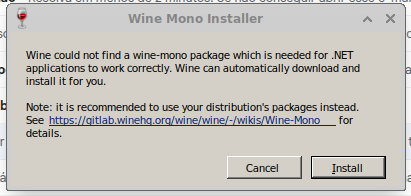
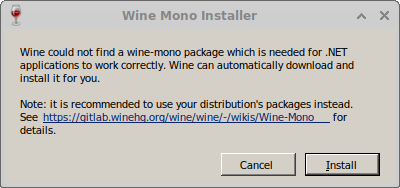
updating README

Changed region(s): [[0.0, 0.0, 1.0, 1.0], [0.3, 0.0532, 0.66, 0.133]]

diff --git a/README.md b/README.md
@@ -196,7 +196,7 @@ Para configurar/instalar/usar o `wine` no `Linux Ubuntu` sem precisar digitar li
     winetricks --version
     ```
 
-## 2. Troubleshooting: conflito entre versões `amd66` e `i386`
+## 2. _Troubleshooting_: conflito entre versões `amd66` e `i386`
 
 Se ocorrer erro como:
 
@@ -218,12 +218,75 @@ sudo apt install libelf1=<versao> libelf1:i386=<versao>
 
 Substitua `<versao>` pela versão disponível no seu sistema.
 
+## 3. Consultar as configurações do `wine` para um determinado repo
+
+1. Para listar os prefixos `Wine` existentes no seu diretório pessoal, você pode começar com:
+
+    ```bash
+    find "$HOME" -maxdepth 2 -type f -name system.reg \
+        -printf '%h\n' 2>/dev/null
+    ```
+
+    Como todo prefixo normalmente possui `system.reg`, você poderá obter algo como:
+
+    ```bash
+    /home/edenedfsls/.wine
+    /home/edenedfsls/.wine-gaseq
+    /home/edenedfsls/.wine-office365
+    ```
+
+2. Para consultar a configuração de um prefixo específico, há alguns comandos úteis:
+
+    ```bash
+    # Abrir a configuracao grafica
+    WINEPREFIX="$HOME/.wine-gaseq" winecfg
+
+    # Abrir o registro desse prefixo
+    WINEPREFIX="$HOME/.wine-gaseq" wine regedit
+
+    # Abrir o painel de controle
+    WINEPREFIX="$HOME/.wine-gaseq" wine control
+
+    # Ver os programas instalados pelo Wine
+    WINEPREFIX="$HOME/.wine-gaseq" \
+        wine uninstaller
+    ```
+
+3. Para descobrir a versão do `Windows` configurada naquele prefixo, uma forma prática é:
+
+    ```bash
+    grep -A 5 'Software\\\\Microsoft\\\\Windows NT\\\\CurrentVersion' \
+        "$HOME/.wine-gaseq/system.reg"
+    ```
+
+    E, se você estiver usando Winetricks, pode consultar várias informações do prefixo:
+
+    ```bash
+    WINEPREFIX="$HOME/.wine-gaseq" winetricks list-installed
+    ```
+
+    Isso é particularmente útil porque mostra componentes adicionais instalados naquele ambiente, por exemplo:
+
+    ```bash
+    corefonts
+    vcrun2019
+    dotnet48
+    ```
+
 ## Referências
 
-[1] OPENAI. ***Instalar o `wine` no `linux ubuntu` pelo `terminal emulator`.*** Disponível em: <https://chatgpt.com/g/g-p-6980caf949648191ad6acfcdbe590f9e-instalar/c/69a549e6-0bac-8328-afc9-8d03a4a89441> (texto adaptado). Acessado em: 02/03/2026 00:37.
+[1] OPENAI.
+**Instalar o `wine` no `linux ubuntu` pelo `terminal emulator`.**
+Disponível em: <https://chatgpt.com/g/g-p-6980caf949648191ad6acfcdbe590f9e-instalar/c/69a549e6-0bac-8328-afc9-8d03a4a89441> (texto adaptado). ChatGPT.
+Acessado em: 02/03/2026 00:37.
 
-[2] WINE HQ TEAM. ***Ubuntu winehq repository.*** Disponível em: <https://wiki.winehq.org/Ubuntu> (texto adaptado). Acessado em: 21/10/2023 00:09.
+[2] WINE HQ TEAM.
+**Ubuntu winehq repository.**
+Disponível em: <https://wiki.winehq.org/Ubuntu> (texto adaptado).
+ChatGPT.
+Acessado em: 21/10/2023 00:09.
 
-[3] OPENAI. ***Vs code: editor popular.*** Disponível em: <https://chat.openai.com/c/b640a25d-f8e3-4922-8a3b-ed74a2657e42> (texto adaptado). Acessado em: 09/02/2024 00:37.
-
-
+[3] OPENAI.
+**Vs code: editor popular.**
+Disponível em: <https://chat.openai.com/c/b640a25d-f8e3-4922-8a3b-ed74a2657e42> (texto adaptado).
+Acessado em: 09/02/2024 00:37.
